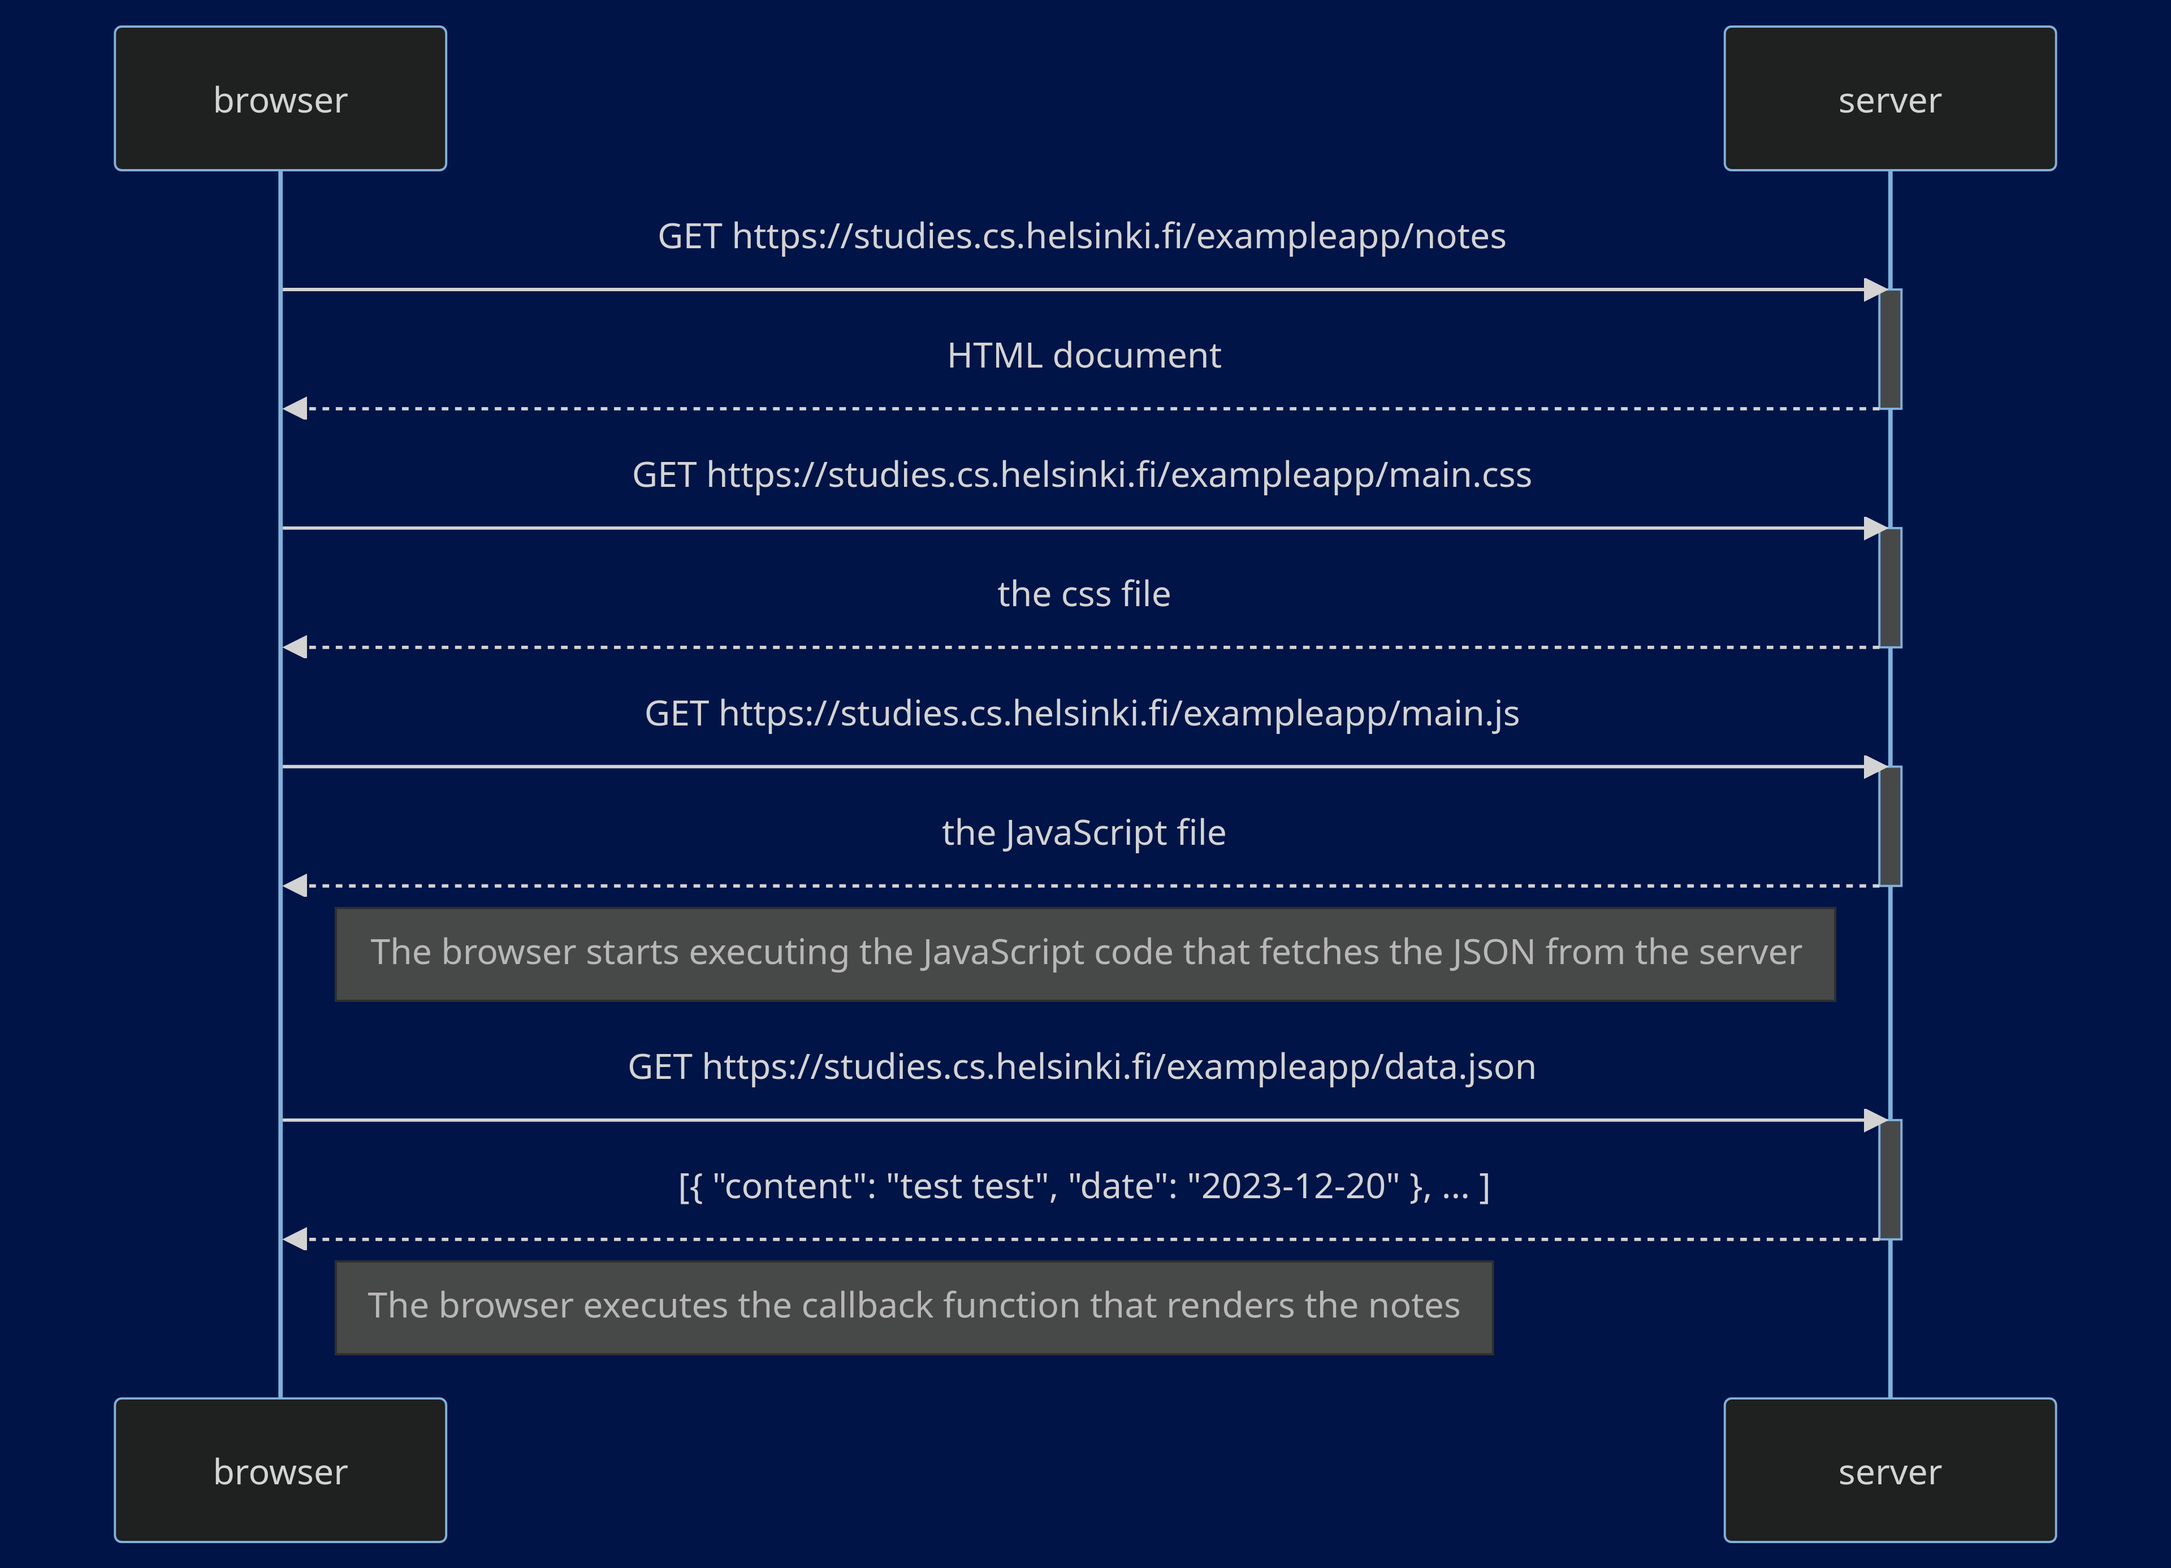
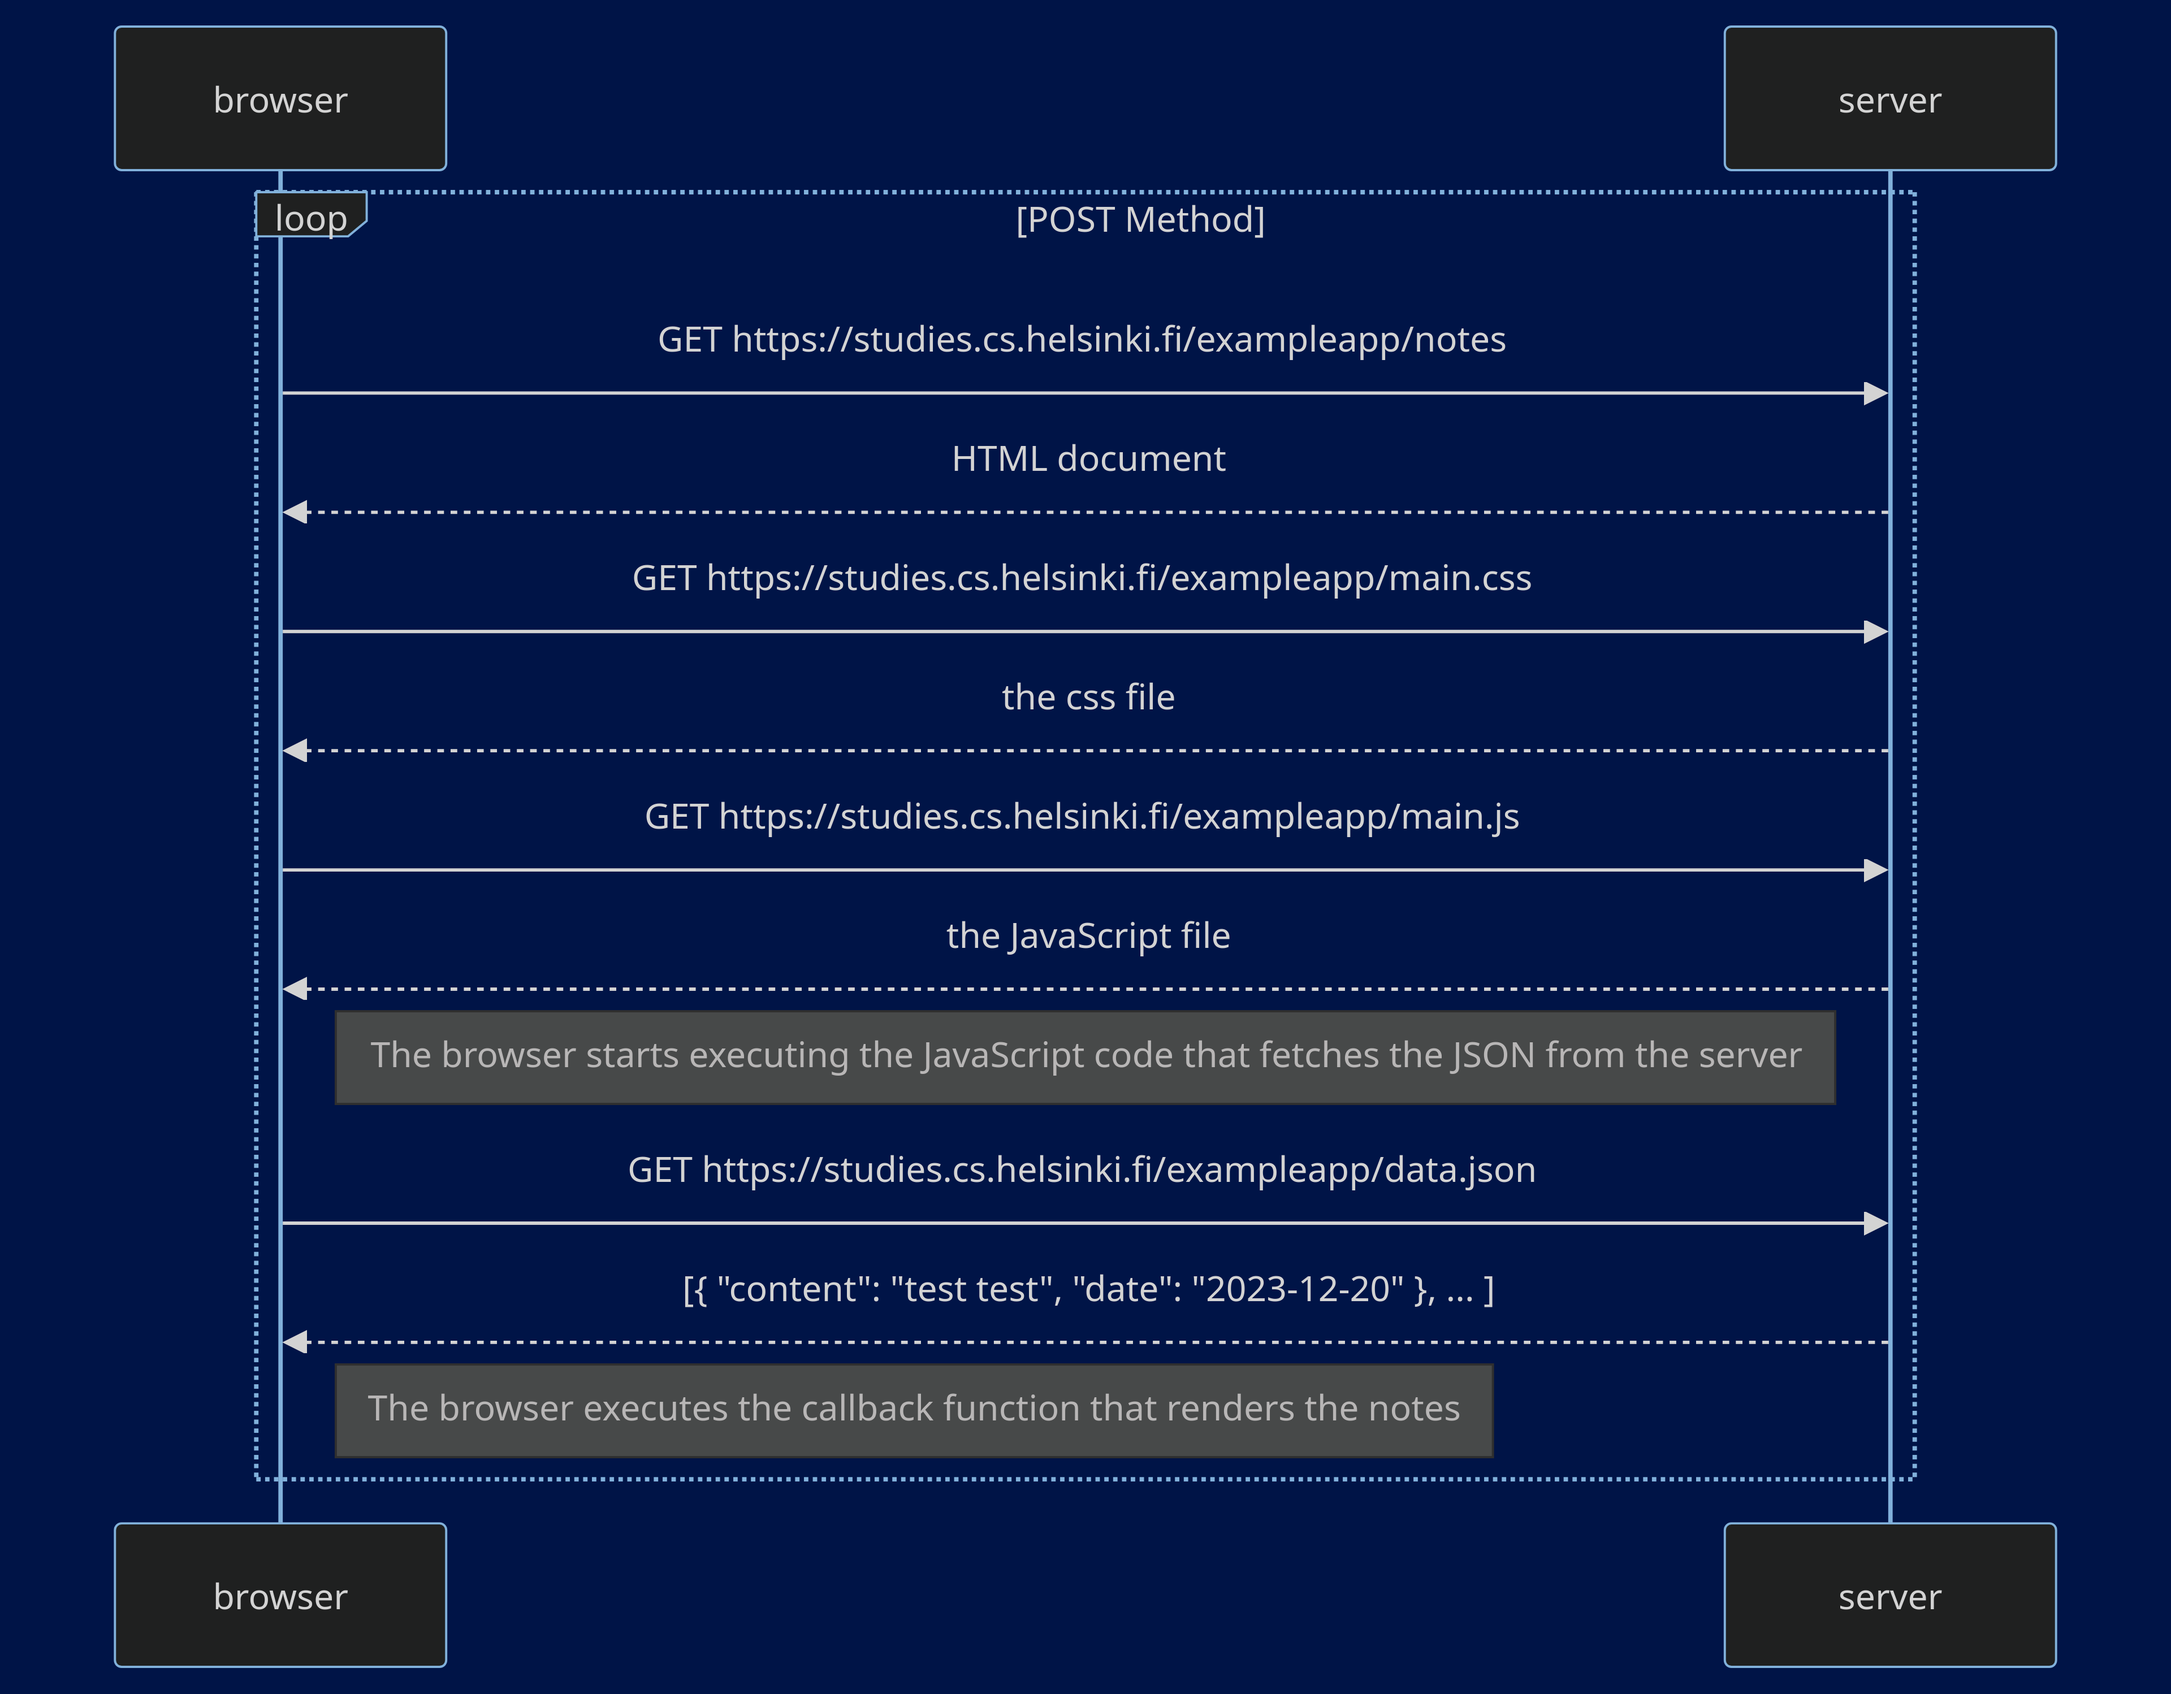
4>6  done

diff --git a/part0/0.4.md b/part0/0.4.md
@@ -5,29 +5,27 @@ sequenceDiagram
 participant browser
 participant server
 
-    browser->>server: GET https://studies.cs.helsinki.fi/exampleapp/notes
-    activate server
-    server-->>browser: HTML document
-    deactivate server
+    loop POST Method
+        browser->>server: GET https://studies.cs.helsinki.fi/exampleapp/notes
+        server-->>browser: HTML document
 
-    browser->>server: GET https://studies.cs.helsinki.fi/exampleapp/main.css
-    activate server
-    server-->>browser: the css file
-    deactivate server
 
-    browser->>server: GET https://studies.cs.helsinki.fi/exampleapp/main.js
-    activate server
-    server-->>browser: the JavaScript file
-    deactivate server
+        browser->>server: GET https://studies.cs.helsinki.fi/exampleapp/main.css
+        server-->>browser: the css file
 
-    Note right of browser: The browser starts executing the JavaScript code that fetches the JSON from the server
 
-    browser->>server: GET https://studies.cs.helsinki.fi/exampleapp/data.json
-    activate server
-    server-->>browser: [{ "content": "test test", "date": "2023-12-20" }, ... ]
-    deactivate server
+        browser->>server: GET https://studies.cs.helsinki.fi/exampleapp/main.js
+        server-->>browser: the JavaScript file
 
-    Note right of browser: The browser executes the callback function that renders the notes
+
+        Note right of browser: The browser starts executing the JavaScript code that fetches the JSON from the server
+
+        browser->>server: GET https://studies.cs.helsinki.fi/exampleapp/data.json
+        server-->>browser: [{ "content": "test test", "date": "2023-12-20" }, ... ]
+
+
+        Note right of browser: The browser executes the callback function that renders the notes
+    end
 ```
 
 ![0.4](../assets/0.4.png)

diff --git a/part0/0.6.md b/part0/0.6.md
@@ -1,0 +1,30 @@
+# 0.6: new note
+
+```mermaid
+sequenceDiagram
+    Title: 0.6: New note
+
+    browser->server: HTTP GET https://studies.cs.helsinki.fi/exampleapp/spa
+    server-->browser: HTML
+    browser->server: HTTP GET https://studies.cs.helsinki.fi/exampleapp/main.css
+    server-->browser: main.css
+    browser->server: HTTP GET https://studies.cs.helsinki.fi/exampleapp/main.js
+    server-->browser: main.js
+
+    Note right of browser: browser starts executing js code that requests JSON data from server
+
+    browser->server: HTTP GET https://studies.cs.helsinki.fi/exampleapp/data.json
+    server-->browser: [{ content: "test test", date: "2023-12-20" }, ...]
+
+    Note right of browser: browser executes the event handler that renders notes to display
+
+    browser->server: HTTP POST { content: "single page app does not reload the whole page", date: "2020-21-1" }
+
+    Note right of browser: browser js event handler stop to reload the page
+
+    server-->browser: [{ content: "test test", date: "2023-12-20" }, ..., { content: "single page app does not reload the whole page", date: "2020-21-1" }]
+
+    Note right of browser: browser executes the event handler that renders notes to display
+```
+
+![0.6](../assets/0.5.png)

diff --git a/part0/0.5.md b/part0/0.5.md
@@ -1,0 +1,26 @@
+# 0.5: SPA
+
+```mermaid
+sequenceDiagram
+    participant browser
+    participant server
+
+    browser->>server: GET https://studies.cs.helsinki.fi/exampleapp/spa
+
+    server-->>browser: HTML
+
+
+    browser->>server: GET https://studies.cs.helsinki.fi/exampleapp/main.css
+    server-->>browser: main.css
+
+    browser->>server: GET https://studies.cs.helsinki.fi/exampleapp/main.js
+    server-->>browser: main.js
+
+    Note right of browser: The browser starts executing the JavaScript code that fetches the JSON from the server
+    browser->>server: GET https://studies.cs.helsinki.fi/exampleapp/data.json
+    server-->>browser: [{ "content": "test test", "date": "2023-12-20" }, ... ]
+
+    Note right of browser: The browser executes the callback function that renders the notes
+```
+
+![0.5](../assets/0.5.png)
